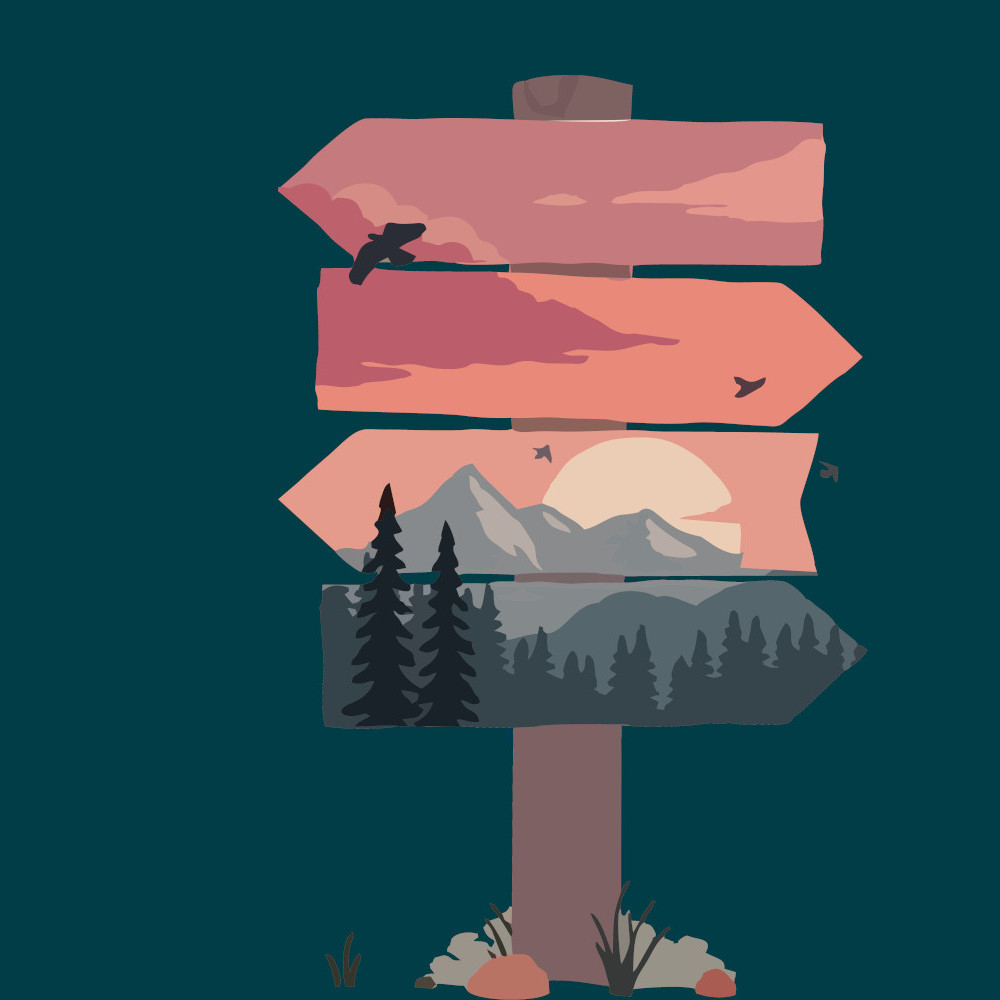
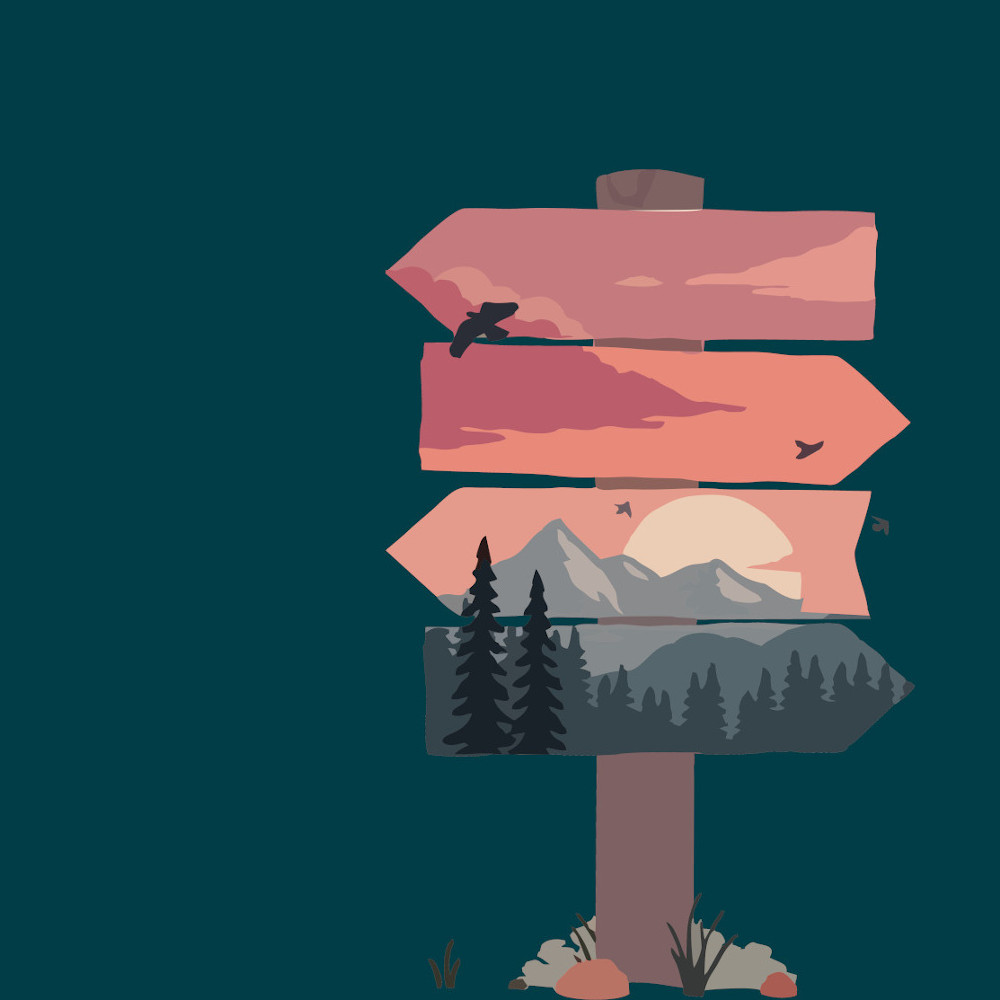
my server

diff --git a/src/index.ts b/src/index.ts
@@ -21,7 +21,7 @@ app.use( bodyParser.json() );
 app.get( '/beautyBGList', ( req: express.Request, res: express.Response ) => {
     let list = {
         // skull   : { height: "45%", translateY: -30 } ,
-        sign    : { height: "35%", translateY: 0 } ,
+        sign    : { height: "40%", translateY: 0 } ,
         mountain: { height: "40%", translateY: 0 } ,
         bird    : { height: "40%", translateY: 0 } ,
         elephant: { height: "40%", translateY: 0 } ,
